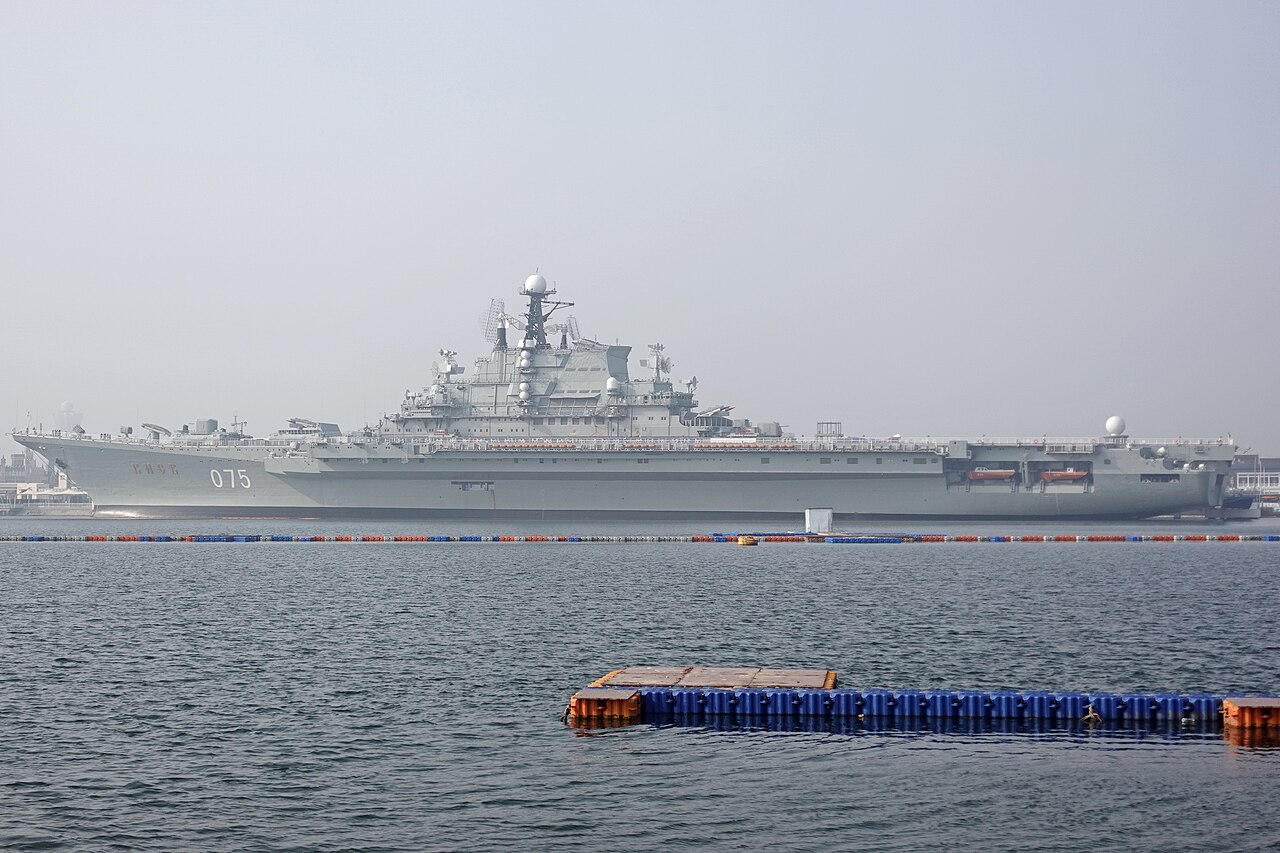
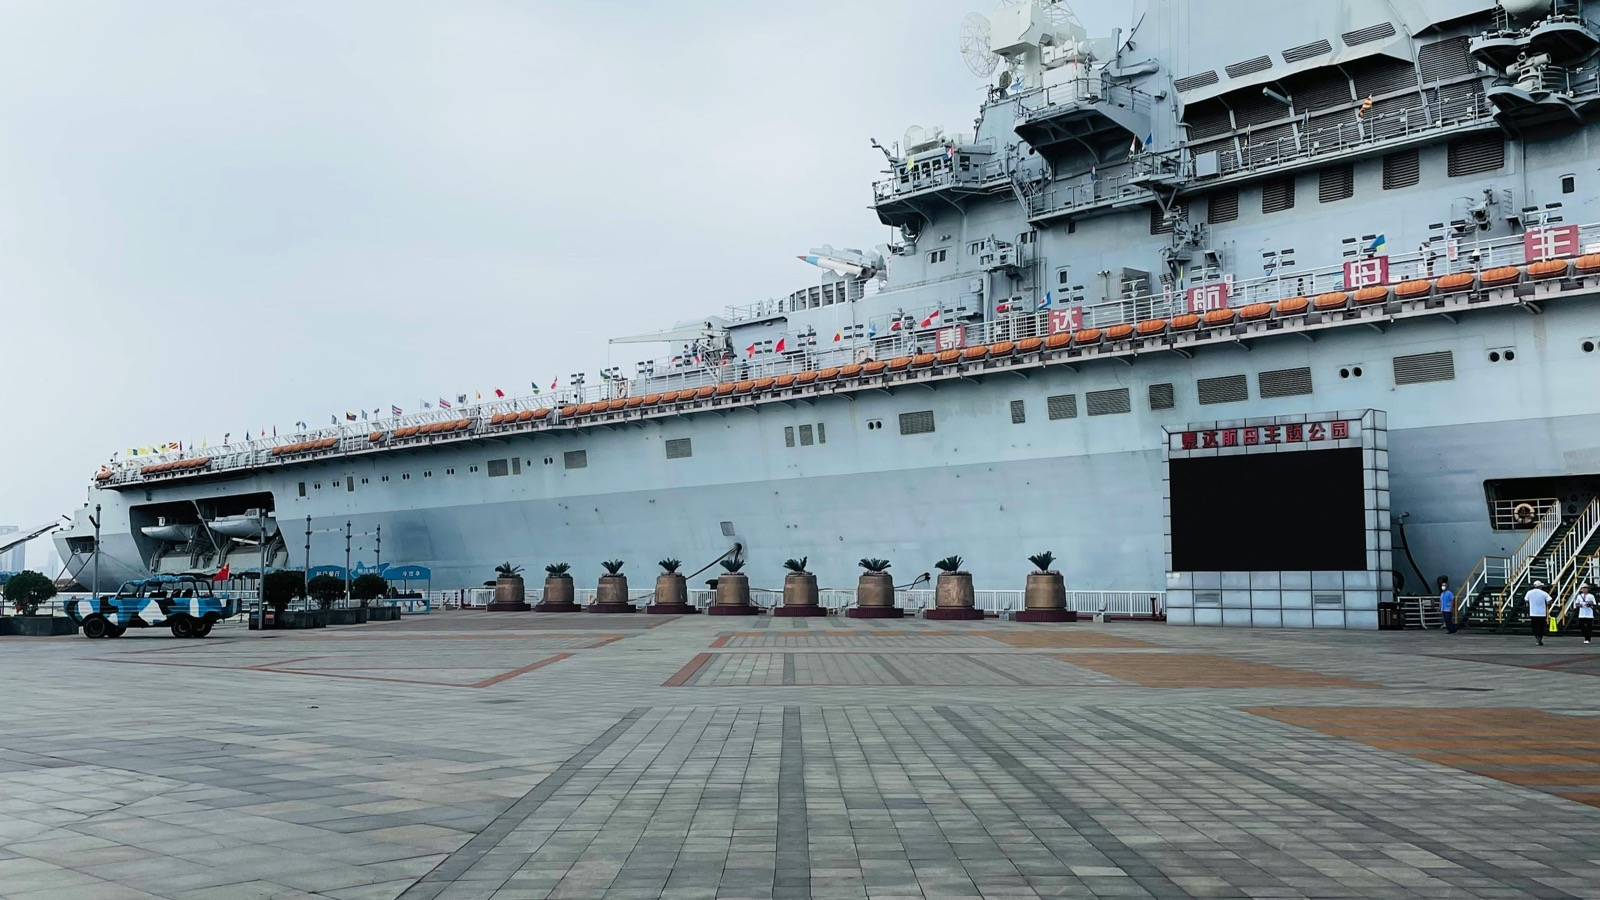
Polish Tianjin guide header

diff --git a/index.html b/index.html
@@ -3,7 +3,7 @@
   <head>
     <meta charset="utf-8" />
     <meta name="viewport" content="width=device-width, initial-scale=1" />
-    <title>合肥到天津亲友接驳版旅游攻略</title>
+    <title>天津旅游攻略 5天4晚</title>
     <style>
       :root {
         --ink: #16212f;
@@ -99,7 +99,7 @@
 
       h1 {
         max-width: 760px;
-        margin: 22px 0 18px;
+        margin: 0 0 18px;
         font-size: 54px;
         line-height: 1.08;
         letter-spacing: 0;
@@ -120,6 +120,12 @@
         max-width: 940px;
       }
 
+      .hero-meta.hero-summary {
+        grid-template-columns: 1fr;
+        max-width: 920px;
+        margin-top: 30px;
+      }
+
       .meta-item {
         min-height: 98px;
         padding: 16px;
@@ -138,6 +144,18 @@
       .meta-item span {
         color: rgba(255, 255, 255, 0.82);
         font-size: 14px;
+      }
+
+      .hero-summary-card {
+        min-height: auto;
+        padding: 22px 24px;
+      }
+
+      .hero-summary-card span {
+        display: block;
+        color: rgba(255, 255, 255, 0.88);
+        font-size: 18px;
+        line-height: 1.78;
       }
 
       main {
@@ -395,16 +413,17 @@
       .train-line {
         display: grid;
         grid-template-columns: 1fr auto 1fr;
-        gap: 14px;
+        gap: 12px;
         align-items: center;
         margin: 18px 0 14px;
-      }
-
-      .station {
         padding: 14px;
         background: #fff;
         border: 1px solid var(--line);
         border-radius: 8px;
+      }
+
+      .station {
+        min-width: 0;
       }
 
       .station span {
@@ -420,10 +439,20 @@
         line-height: 1.1;
       }
 
+      .station:last-child {
+        text-align: right;
+      }
+
       .rail-arrow {
+        display: flex;
+        align-items: center;
+        justify-content: center;
+        width: 30px;
+        height: 30px;
         color: var(--brick);
         font-weight: 900;
         font-size: 24px;
+        line-height: 1;
       }
 
       .price {
@@ -512,6 +541,38 @@
       .route-map img {
         height: auto;
         object-fit: contain;
+      }
+
+      .video-feature {
+        margin-top: 22px;
+        background: var(--surface);
+        border: 1px solid var(--line);
+        border-radius: 8px;
+        overflow: hidden;
+        box-shadow: var(--shadow);
+      }
+
+      .video-frame {
+        position: relative;
+        aspect-ratio: 16 / 9;
+        background: #111a22;
+      }
+
+      .video-frame iframe {
+        display: block;
+        width: 100%;
+        height: 100%;
+        border: 0;
+      }
+
+      .video-copy {
+        padding: 18px;
+      }
+
+      .video-copy h3 {
+        margin: 0;
+        font-size: 22px;
+        line-height: 1.25;
       }
 
       .food-card {
@@ -653,7 +714,7 @@
         }
 
         h1 {
-          margin: 18px 0 14px;
+          margin: 0 0 14px;
           font-size: 31px;
           line-height: 1.12;
         }
@@ -680,11 +741,32 @@
           -webkit-overflow-scrolling: touch;
         }
 
+        .hero-meta.hero-summary {
+          display: grid;
+          grid-template-columns: 1fr;
+          margin-top: 20px;
+          padding-bottom: 0;
+          overflow: visible;
+          scroll-snap-type: none;
+        }
+
         .meta-item {
           flex: 0 0 78%;
           min-height: 112px;
           padding: 14px;
           scroll-snap-align: start;
+        }
+
+        .hero-meta.hero-summary .meta-item {
+          flex: initial;
+          width: 100%;
+          min-height: auto;
+          scroll-snap-align: none;
+        }
+
+        .hero-summary-card span {
+          font-size: 15px;
+          line-height: 1.72;
         }
 
         section {
@@ -735,15 +817,6 @@
         .train-card h3,
         .crosstalk-card h3 {
           font-size: 20px;
-        }
-
-        .train-line {
-          grid-template-columns: 1fr;
-        }
-
-        .rail-arrow {
-          text-align: center;
-          transform: rotate(90deg);
         }
 
         .action-link {
@@ -817,29 +890,12 @@
   <body>
     <header class="hero">
       <div class="hero-inner">
-        <div class="eyebrow">合肥出发 · G680 傍晚进津 · 亲友接驳版</div>
-        <h1>合肥到天津，住在天津站边上的海河城市假期</h1>
-        <p>
-          以 G680 18:30 到天津西为起点，第一晚先吃天津菜再看海河夜景，第二天把意风区、五大道和相声串起来，第三天亲友开车送到滨海航母乐园，第四天预约国家海洋博物馆，晚上回市区吃罾蹦鲤鱼，最后住到天津南站旁边方便返程。
-        </p>
-        <div class="hero-meta">
-          <div class="meta-item">
-            <b>住宿核心</b>
-            <span>前两晚住天津站、津湾广场附近；返程前一晚住
-              <a class="poi-link" href="https://m.dianping.com/search/keyword/10/0_天津南站鹏瑞利明宇丽雅酒店" target="_blank" rel="noreferrer">天津南站鹏瑞利明宇丽雅酒店</a>
-              。</span>
-          </div>
-          <div class="meta-item">
-            <b>游玩节奏</b>
-            <span>市区步行多，滨海两天靠亲友开车接送，节假日航母烟花单独关注。</span>
-          </div>
-          <div class="meta-item">
-            <b>交通提醒</b>
-            <span>最推荐 G680，14:12 出发、18:30 到天津西，正好接晚饭和夜景。</span>
-          </div>
-          <div class="meta-item">
-            <b>订票重点</b>
-            <span>天津之眼、海河游船、相声夜场建议提前预约或订票。</span>
+        <h1>天津旅游攻略 5天4晚</h1>
+        <div class="hero-meta hero-summary">
+          <div class="meta-item hero-summary-card">
+            <span>
+              以 G680 18:30 到天津西为起点，第一晚先吃天津菜再看海河夜景，第二天把意风区、五大道和相声串起来，第三天亲友开车送到滨海航母乐园，第四天预约国家海洋博物馆，晚上回市区吃罾蹦鲤鱼，最后住到天津南站旁边方便返程。
+            </span>
           </div>
         </div>
       </div>
@@ -856,6 +912,22 @@
             市区景点适合夜景和 City Walk；滨海这版拆成航母乐园和国家海洋博物馆两天，靠亲友开车接送更舒服。
           </p>
         </div>
+
+        <article class="video-feature">
+          <div class="video-copy">
+            <h3>天津“海河之夜”灯光秀</h3>
+          </div>
+          <div class="video-frame">
+            <iframe
+              src="https://player.bilibili.com/player.html?isOutside=true&bvid=BV12UeuzgEjG&page=1&high_quality=1&autoplay=0"
+              title="相约上合，绽放“津”彩！天津夜景今起上新，“海河之夜”灯光秀将常态化点亮"
+              loading="lazy"
+              allow="fullscreen; picture-in-picture; encrypted-media"
+              allowfullscreen
+              referrerpolicy="no-referrer-when-downgrade"
+            ></iframe>
+          </div>
+        </article>
 
         <div class="spot-grid">
           <article class="spot-card">
@@ -1031,10 +1103,10 @@
         <div class="section-head">
           <div>
             <div class="section-kicker">02 · 晚间项目</div>
-            <h2>想听相声，提前 1 到 2 周订票</h2>
+            <h2>想听相声，提前 1 到 2 周预约</h2>
           </div>
           <p class="section-note">
-            相声适合替换天津之眼登舱或部分夜间散步；热门场次不建议当天临时订。
+            相声适合替换天津之眼登舱或部分夜间散步；可在微信/票务小程序里搜索剧场名称在线预约，热门场次不建议当天临时订。
           </p>
         </div>
 
@@ -1059,7 +1131,7 @@
               <div class="day-label">热门优先</div>
               <h3>德云社天津分社</h3>
               <p>
-                地址在建国道 95 号，离天津站和意风区不远。热门演员或周末场更抢手，建议提前 1 到 2 周网上订票，常见周五开下周票。
+                地址在建国道 95 号，离天津站和意风区不远。热门演员或周末场更抢手，建议提前 1 到 2 周在微信/大麦小程序搜索“德云社天津”在线预约，常见周五开下周票。
               </p>
               <ul class="detail-list">
                 <li>适合：第一次来天津，想看更有名气的相声班底。</li>
@@ -1100,7 +1172,7 @@
               </p>
               <ul class="detail-list">
                 <li>适合：想离古文化街、天津之眼近一些，动线更顺。</li>
-                <li>提醒：周末和节假日提前订，现场临时买票不稳。</li>
+                <li>提醒：周末和节假日提前在微信/携程等小程序搜索“葫芦相声社”在线预约，现场临时买票不稳。</li>
               </ul>
               <a
                 class="action-link"
@@ -1136,7 +1208,7 @@
               <ul class="detail-list">
                 <li>适合：不追演员阵容，只想体验天津茶馆相声氛围。</li>
                 <li>位置：古文化街附近，听完可以顺路看三岔河口和天津之眼外景。</li>
-                <li>参考：普通场次价格和场次变化大，以购票页当天为准。</li>
+                <li>参考：普通场次价格和场次变化大，可在微信/大麦小程序搜索“名流茶馆古文化街”在线预约，以当天购票页为准。</li>
               </ul>
               <a
                 class="action-link"
@@ -1782,7 +1854,7 @@
               <tr>
                 <td>相声</td>
                 <td>按场次和座位浮动</td>
-                <td>德云社、葫芦相声社和古文化街茶馆建议提前 1 到 2 周订票，节假日更要早订。</td>
+                <td>德云社、葫芦相声社和古文化街茶馆建议提前 1 到 2 周，在微信/票务小程序里搜索名称在线预约，节假日更要早订。</td>
               </tr>
             </tbody>
           </table>
@@ -1794,16 +1866,13 @@
             <li>先查火车：去程优先 G680；返程按 07:29 的 G87 或 09:33 的 G981 核对余票。</li>
             <li>先订酒店：前两晚天津站/津湾，第三晚滨海民宿，第四晚天津南站旁。</li>
             <li>再约国家海洋博物馆：普通展免费预约，但热门时段容易满，郑和纯木质舰模型安排在入馆后先看。</li>
-            <li>相声票提前 1 到 2 周订票：德云社、葫芦相声社和名流茶馆都按实际场次购票。</li>
+            <li>相声票提前 1 到 2 周预约：在微信/大麦/携程等小程序里搜索德云社天津、葫芦相声社、名流茶馆，可在线预约。</li>
             <li>航母乐园看节假日活动：若有烟花秀，第三晚住滨海会更舒服。</li>
             <li>最后定海河游船：看当天天气，Day 1 晚上优先津湾码头或天津站码头。</li>
           </ul>
         </div>
       </section>
 
-      <footer>
-        生成日期：2026-05-22。实际火车票价、开闭馆、演出场次和船班会随日期变化，出行前以 12306、景区官方公众号、票务平台和酒店平台当日信息为准。
-      </footer>
     </main>
   </body>
 </html>

diff --git a/memory.md b/memory.md
@@ -37,7 +37,7 @@
 - 2026-05-22 更新：火车方案改为主推 3 趟白天高铁，且最推荐 `G680` 合肥南 14:12 到天津西 18:30，理由是下午出发、傍晚抵达后正好放行李吃晚饭；备选为 `G1274` 合肥南 11:15 到天津西 15:19、`G2554` 合肥站 09:00 到天津南 13:08；`T242/T243` 仅作为坚持天津站下车的凌晨到站备选，实际以 12306 当日为准。
 - 2026-05-22 更新：每日路线地图采用本地静态 SVG 图，页面素材从 3 张扩展为 5 张：`assets/day1-route-map.svg` 到 `assets/day5-route-map.svg`。
 - 2026-05-22 更新：景点卡片不显示 `图源：Wikimedia Commons`，景点图片点击跳转到对应百度百科页面。
-- 2026-05-22 更新：旅游项目新增“听相声”，推荐德云社天津分社、葫芦相声社·乐呵兄弟、古文化街普通相声馆子；提示提前 1 到 2 周网上订票，并在页面展示订票/信息链接。
+- 2026-05-22 更新：旅游项目新增“听相声”，推荐德云社天津分社、葫芦相声社·乐呵兄弟、古文化街普通相声馆子；提示提前 1 到 2 周在微信/票务小程序里搜索剧场名称在线预约，并在页面展示订票/信息链接。
 - 2026-05-22 更新：酒店推荐新增天津海河假日酒店，强调多数高层房型正对天津之眼摩天轮、夜景视野极佳；订房时优先确认高层、河景或摩天轮景观房型。
 - 2026-05-22 更新：资料来源新增 IHG 天津海河假日酒店官方页，用于补充酒店位置、海河景观和订房信息参考。
 - 2026-05-22 更新：用户指定最新路线为亲友接驳版：G680 18:30 到天津西后先打车约 1.2km 去利德顺小老饭庄(复兴路店)吃晚饭，再入住市区酒店，晚上沿海河到津湾广场或坐海河游船；第二天早上吃津门张记包子铺(丰业里店)，步行意大利风情街，中午天津小吃和狗不理(天津·海河意式风情区店)，下午五大道/民园广场，晚上桂园餐厅(五大道店)吃八珍豆腐并可听相声；第三天退房由亲友开车约 70km 去泰达航母主题公园，晚上住滨海附近民宿；第四天预约国家海洋博物馆，看大厅郑和纯木质舰模型，下午亲友接回市区，晚上吃罾蹦鲤鱼，住天津南站鹏瑞利明宇丽雅酒店；第五天从天津南站选 07:29 G87 或 09:33 G981 回合肥南，实际以 12306 为准。
@@ -47,3 +47,8 @@
 - 2026-05-22 更新：页面板块顺序调整为：必去景点、相声订票、美食与餐馆、火车与抵达、先定大本营、线路、预算与预约；相声文案统一使用“订票”。
 - 2026-05-22 更新：5 张线路图重画为更贴近实际地理相对位置的本地 SVG：天津西在市区西侧，市区核心沿海河，滨海在东侧，天津南在市区西南侧，返程向南到合肥南。
 - 2026-05-22 更新：相声卡片改为和景点卡片一致的图文结构，并新增本地门口照片素材：`assets/crosstalk-deyunshe.jpg`、`assets/crosstalk-hulu.jpg`、`assets/crosstalk-mingliu.jpg`。
+- 2026-05-22 更新：在“必去景点”板块的景点卡片上方嵌入 B 站视频《相约上合，绽放“津”彩！天津夜景今起上新，“海河之夜”灯光秀将常态化点亮》，视频模块只保留标题和 `player.bilibili.com` iframe，不显示封面、描述文字或外链按钮。
+- 2026-05-22 更新：滨海航母乐园图片已替换为近距离、横向裁切的基辅号航母侧身照片，页面素材仍为 `assets/carrier-kiev.jpg`，重点呈现航母宏大恢弘的体量感。
+- 2026-05-22 更新：用户要求页面底部不要显示“生成日期：2026-05-22。实际火车票价……”这类生成日期/免责声明文案，已从 `index.html` 删除 footer 内容。
+- 2026-05-22 更新：相声预约提示改为“可在微信/大麦/携程等小程序里搜索剧场名称在线预约”，用于德云社天津、葫芦相声社、名流茶馆等相声项目。
+- 2026-05-22 更新：页面顶部 hero 调整：移除“合肥出发 · G680 傍晚进津 · 亲友接驳版”胶囊标签，主标题改为“天津旅游攻略 5天4晚”，原顶部路线说明移入下方单个黑色摘要框，四个黑框合并为一个。